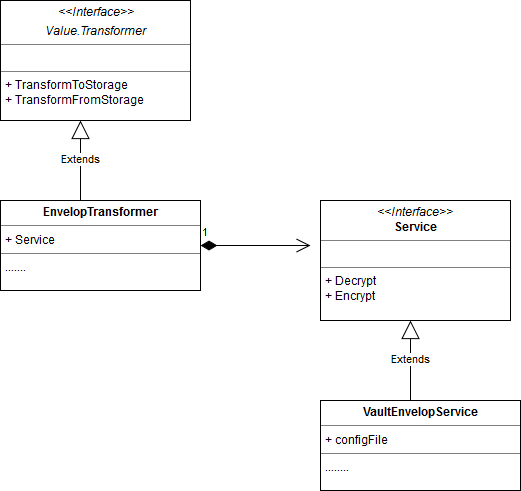
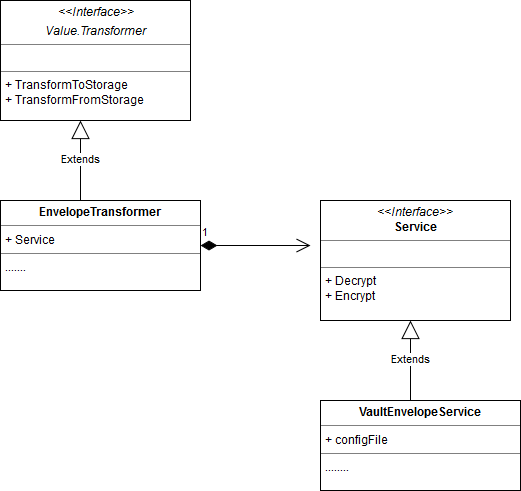
Brought spec inline with EnvelopeTransformer interfaces in PR 49350

Changed region(s): [[0.0614, 0.3971, 0.3071, 0.4582], [0.6756, 0.8248, 0.9213, 0.8554]]

diff --git a/contributors/design-proposals/vault-based-kms-provider.md b/contributors/design-proposals/vault-based-kms-provider.md
@@ -29,7 +29,7 @@ Note, that the Vault Provider in this proposal
 This proposal assumes familiarity with Vault and the transit back-end.
 
 ## High level design
-As with existing providers, the Vault based provider will implement the interface ``KMSService``. Based on value of *kind* in the KMS provider configuration, the ``KMSTransformer`` module will use an instance of the Vault provider for decryption and encryption of DEK before storing and after reading from the storage.
+As with existing providers, the Vault based provider will implement the interface ``envelope.Service``. Based on value of *name* in the KMS provider configuration, the ``EnvelopeTransformer`` module will use an instance of the Vault provider for decryption and encryption of DEK before storing and after reading from the storage.
 
 The KEK will be stored and managed in Vault backend. The Vault based provider configured in KMS Transformer configuration will make REST requests to encrypt and decrypt DEKs over a secure channel, if TLS is enabled. KMS Transformer will store the DEKs in etcd in encrypted form along with encrypted secrets. As with existing providers, encrypted DEKs will be stored with metadata used to identify the provider and KEK to be used for decryption.
 
@@ -44,41 +44,46 @@ The provider will work with vault REST APIs and will not require Vault to be con
 
 ### Diagram illustrating interfaces and implementations
 
-![Image of interfaces](pseudoclassdiagram.png)
+![Image of interfaces](vault-based-kms-class-diagram.png)
 
 ### Pseudocode
 #### Prefix Metadata
-Every encrypted DEK will have the following metadata prefixed. 
-``vault:<api-version>:<key-name>:<key-version>``
+Every encrypted secret will have the following metadata prefixed. 
+``k8s:enc:kms:<api-version>:vault:len(<KEK-key-name>:<KEK-key-version>:<DEK encrypted with KEK>):<KEK-key-name>:<KEK-key-version>:<DEK encrypted with KEK>``
 
-* ``vault`` represents the KMS service *kind* value. It is a fixed value for Vault based provider.
 * ``<api-version>`` represents api version in the providers configuration file.
-* ``key-name`` is determined from the vault service configuration in providers configuration file
-* ``key-version`` is an internal identifier used by vault to identify specific key version used to encrypt and decrypt. Vault sends ``key-version`` prefixed with encrypted data in the response to an encrypt request. The ``key-version`` will be stored as part of prefix and returned back to Vault during a decrypt request.
+* ``vault`` represents the KMS service *kind* value. It is a fixed value for Vault based provider.
+* ``KEK-key-name`` is determined from the vault service configuration in providers configuration file
+* ``KEK-key-version`` is an internal identifier used by vault to identify specific key version used to encrypt and decrypt. Vault sends ``kek-key-version`` prefixed with encrypted data in the response to an encrypt request. The ``kek-key-version`` will be stored as part of prefix and returned back to Vault during a decrypt request.
+
+Of the above metadata, 
+
+* ``EnvelopeTransformer`` will add ``k8s:enc:kms:<api-version>:vault:len(<KEK-key-name>:<KEK-key-version>:<DEK encrypted with KEK>)``
+* while the ``vaultEnvelopeService`` will add ``<KEK-key-name>:<KEK-key-version>:<DEK encrypted with KEK>``. 
+
 
 #### For each write of DEK
-KMS transformer will write encrypted DEK along with encrypted secret in etcd.
-Here's the pseudocode for each write of DEK. 
+``EnvelopeTransformer`` will write encrypted DEK along with encrypted secret in etcd.
 
-    API_VERSION = <api version from providers configuration file>
+Here's the pseudocode for ``vaultEnvelopeService.encrypt()``, invoked on each write of DEK. 
+
     KEY_NAME = <first key-name from vault provider config>
-
     PLAIN_DEK = <value of DEK>
-
-    ENCRYPTED_DEK_WITH_KEY_VERSION = encrypt(base64(PLAIN_DEK), KEY_NAME)
- 
+    ENCRYPTED_DEK_WITH_KEY_VERSION  = encrypt(base64(PLAIN_DEK), KEY_NAME) 
+   
     // output from vault will have an extra prefix "vault" (other than key version) which will be stripped.
 
-    STORED_DEK = vault:<api-version>:KEY_NAME:<ENCRYPTED_DEK_WITH_KEY_VERSION>
+    STORED_DEK = KEY_NAME:<ENCRYPTED_DEK_WITH_KEY_VERSION>
     
 #### For each read of DEK
-KMS transformer will read encrypted DEK along with encrypted secret from etcd
-Here's the pseudocode for each read of DEK. 
+``EnvelopeTransformer`` will read encrypted DEK along with encrypted secret from etcd
 
-	// parse the provider kind, key name and encrypted DEK prefixed with key 
-	//version
+Here's the pseudocode ``vaultEnvelopeService.decrypt()`` invoked on each read of DEK. 
+
+	// parse the provider kind, key name and encrypted DEK prefixed with key version
 	KEY_NAME = //key-name from the prefix
 	ENCRYPTED_DEK_WITH_KEY_VERSION = //<key version>:<encrypted DEK> from the stored value
+	
 	 // add "vault" prefix to ENCRYPTED_DEK_WITH_KEY_VERSION as required by vault decrypt API
 	
 	base64Encoded = decrypt(vault:ENCRYPTED_DEK_WITH_KEY_VERSION, KEY_NAME)
@@ -99,9 +104,24 @@ Here's the pseudocode for each read of DEK.
 
 No new configuration file or startup parameter will be introduced.
 
-The following configuration elements will be stored in the existing configuration file used to configure any of the encryption providers. The location of this configuration file  is identified by the existing startup parameter: `--experimental-encryption-provider-config` .
+The vault provider will be specified in the existing configuration file used to configure any of the encryption providers. The location of this configuration file  is identified by the existing startup parameter: `--experimental-encryption-provider-config` .
 
-Vault provider configuration will be identified by value "**vault**" of ``kind`` attribute in ``kms`` provider.
+Vault provider configuration will be identified by value "**vault**" for the ``name`` attribute in ``kms`` provider.
+
+The actual configuration of the vault provider will be in a separate configuration identified by the ``configfile`` attribute in the KMS provider. 
+
+Here is a sample configuration file with the vault provider configured: 
+
+	kind: EncryptionConfig
+	apiVersion: v1
+	resources:
+	  - resources:
+	    - secrets
+	    providers:
+	    - kms:
+	      name: vault
+	      cachesize: 10
+	      configfile: /home/myvault/vault-config.yaml
 
 #### Minimal required Configuration
 The Vault based Provider needs the following configuration elements, at a minimum:
@@ -111,7 +131,7 @@ The Vault based Provider needs the following configuration elements, at a minimu
 
 Note :  key name does not need to be changed if key is rotated in Vault, the rotated key is identified by key version which is prefix to ciphertext.
 
-New key can be added in the list. Encryption will be done using the first key in the list. Decryption can happen using any of the keys in the list based on the prefix to the encrypted DEK stored in etcd
+A new key can be added in the list. Encryption will be done using the first key in the list. Decryption can happen using any of the keys in the list based on the prefix to the encrypted DEK stored in etcd
 
 #### Authentication Configuration
 ##### Vault Server Authentication
@@ -204,6 +224,9 @@ Note that when a key is rotated, Vault does not allow to choose a different encr
 ## Performance
 1. KMS provider framework uses LRU cache to minimize the requests to KMS for encryption and decryption of DEKs. 
 2. Note that there will be a request to KMS for every cache miss causing a performance impact. Hence, depending on the cache size, there will be a performance impact. 
-3. Response time.  
+3. Response time. 
+    4.  will depend on choice of encryption algorithm and strength. 
+    5. will depend on specific vault configurations like storage backend, authentication mechanism, token polices etc.
+
 
 
